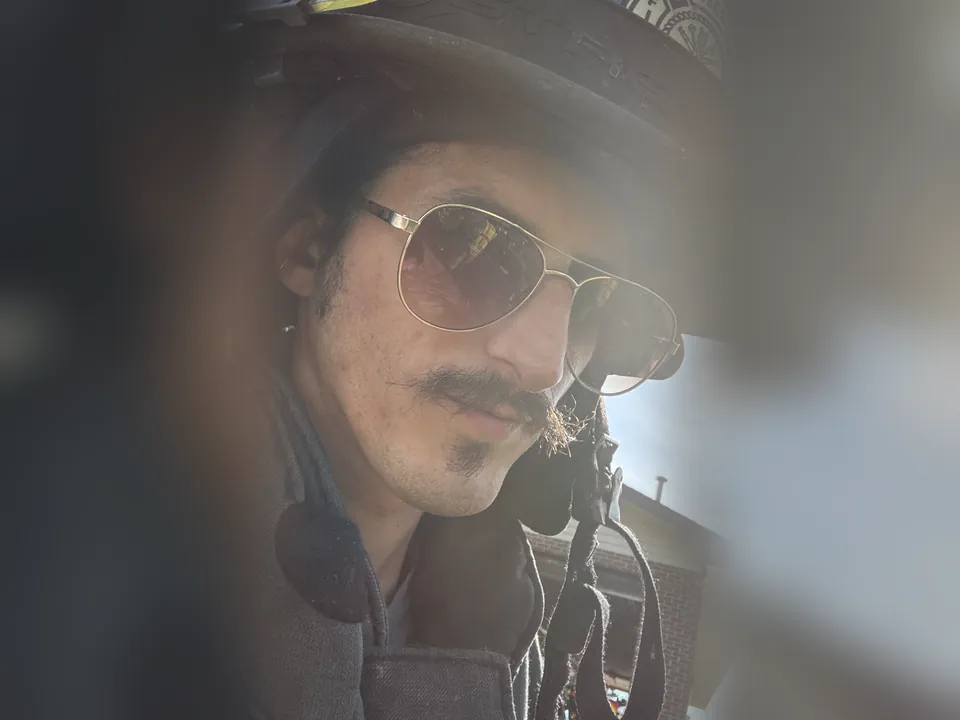
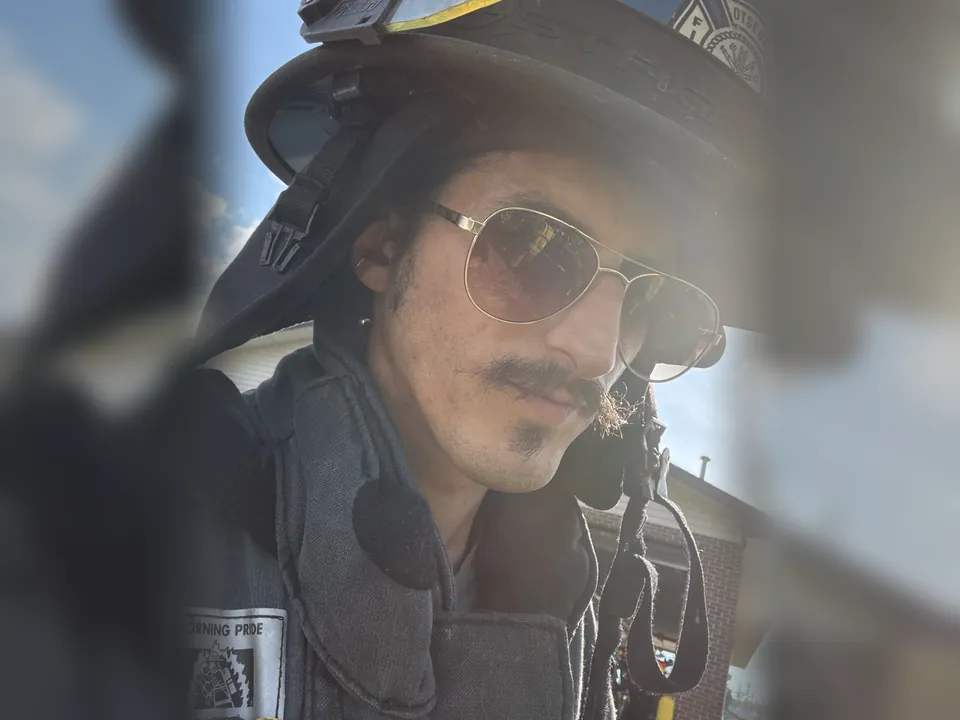
Show more of each board photo and soften the side blur

diff --git a/index.html b/index.html
@@ -303,9 +303,9 @@
     <div class="eyebrow">Leadership</div>
     <h2 class="section-heading">Board of <em>Directors</em></h2>
     <div class="board-grid">
-      <div class="board-card board-card--photo reveal"><div class="board-photo"><img src="images/board-libby-wide.webp" alt="Libby Benjamin" width="960" height="720" loading="lazy"></div><div class="board-info"><div class="board-name">Libby Benjamin</div><div class="board-role">President</div></div></div>
-      <div class="board-card board-card--photo reveal"><div class="board-photo"><img src="images/board-dan-wide.webp" alt="Dan Rypkowski" width="960" height="720" loading="lazy"></div><div class="board-info"><div class="board-name">Dan Rypkowski</div><div class="board-role">Vice President</div></div></div>
-      <div class="board-card board-card--photo reveal"><div class="board-photo"><img src="images/board-kenneth-wide.webp" alt="Kenneth Gibson" width="960" height="720" loading="lazy"></div><div class="board-info"><div class="board-name">Kenneth Gibson</div><div class="board-role">Secretary / Treasurer</div></div></div>
+      <div class="board-card board-card--photo reveal"><div class="board-photo"><img src="images/board-libby-wide.webp?v=2" alt="Libby Benjamin" width="960" height="720" loading="lazy"></div><div class="board-info"><div class="board-name">Libby Benjamin</div><div class="board-role">President</div></div></div>
+      <div class="board-card board-card--photo reveal"><div class="board-photo"><img src="images/board-dan-wide.webp?v=2" alt="Dan Rypkowski" width="960" height="720" loading="lazy"></div><div class="board-info"><div class="board-name">Dan Rypkowski</div><div class="board-role">Vice President</div></div></div>
+      <div class="board-card board-card--photo reveal"><div class="board-photo"><img src="images/board-kenneth-wide.webp?v=2" alt="Kenneth Gibson" width="960" height="720" loading="lazy"></div><div class="board-info"><div class="board-name">Kenneth Gibson</div><div class="board-role">Secretary / Treasurer</div></div></div>
     </div>
   </div>
 </section>
